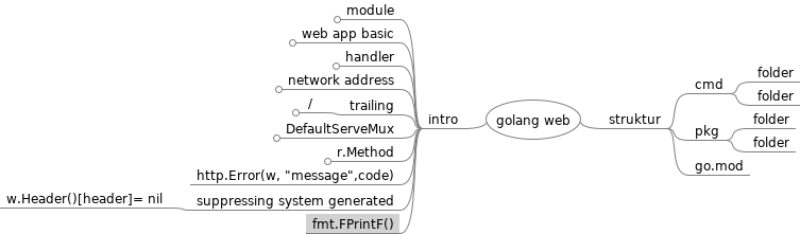
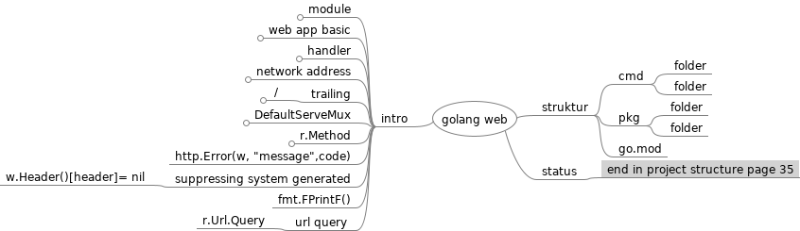
update lecture notes

Changed region(s): [[0.0, 0.0, 1.0, 1.0]]

diff --git a/golang web.mm b/golang web.mm
@@ -62,6 +62,12 @@
 <node CREATED="1646147529504" ID="ID_1929377357" MODIFIED="1646147540383" TEXT="w.Header()[header]= nil"/>
 </node>
 <node CREATED="1646147667382" ID="ID_183370300" MODIFIED="1646147676154" TEXT="fmt.FPrintF()"/>
+<node CREATED="1646148165127" ID="ID_444521504" MODIFIED="1646148170950" TEXT="url query ">
+<node CREATED="1646148171339" ID="ID_1004898848" MODIFIED="1646148178672" TEXT="r.Url.Query"/>
+</node>
+</node>
+<node CREATED="1646148221612" ID="ID_1704935439" MODIFIED="1646148225350" POSITION="right" TEXT="status">
+<node CREATED="1646148225587" ID="ID_963603301" MODIFIED="1646148249772" TEXT="end in project structure page 35"/>
 </node>
 </node>
 </map>
